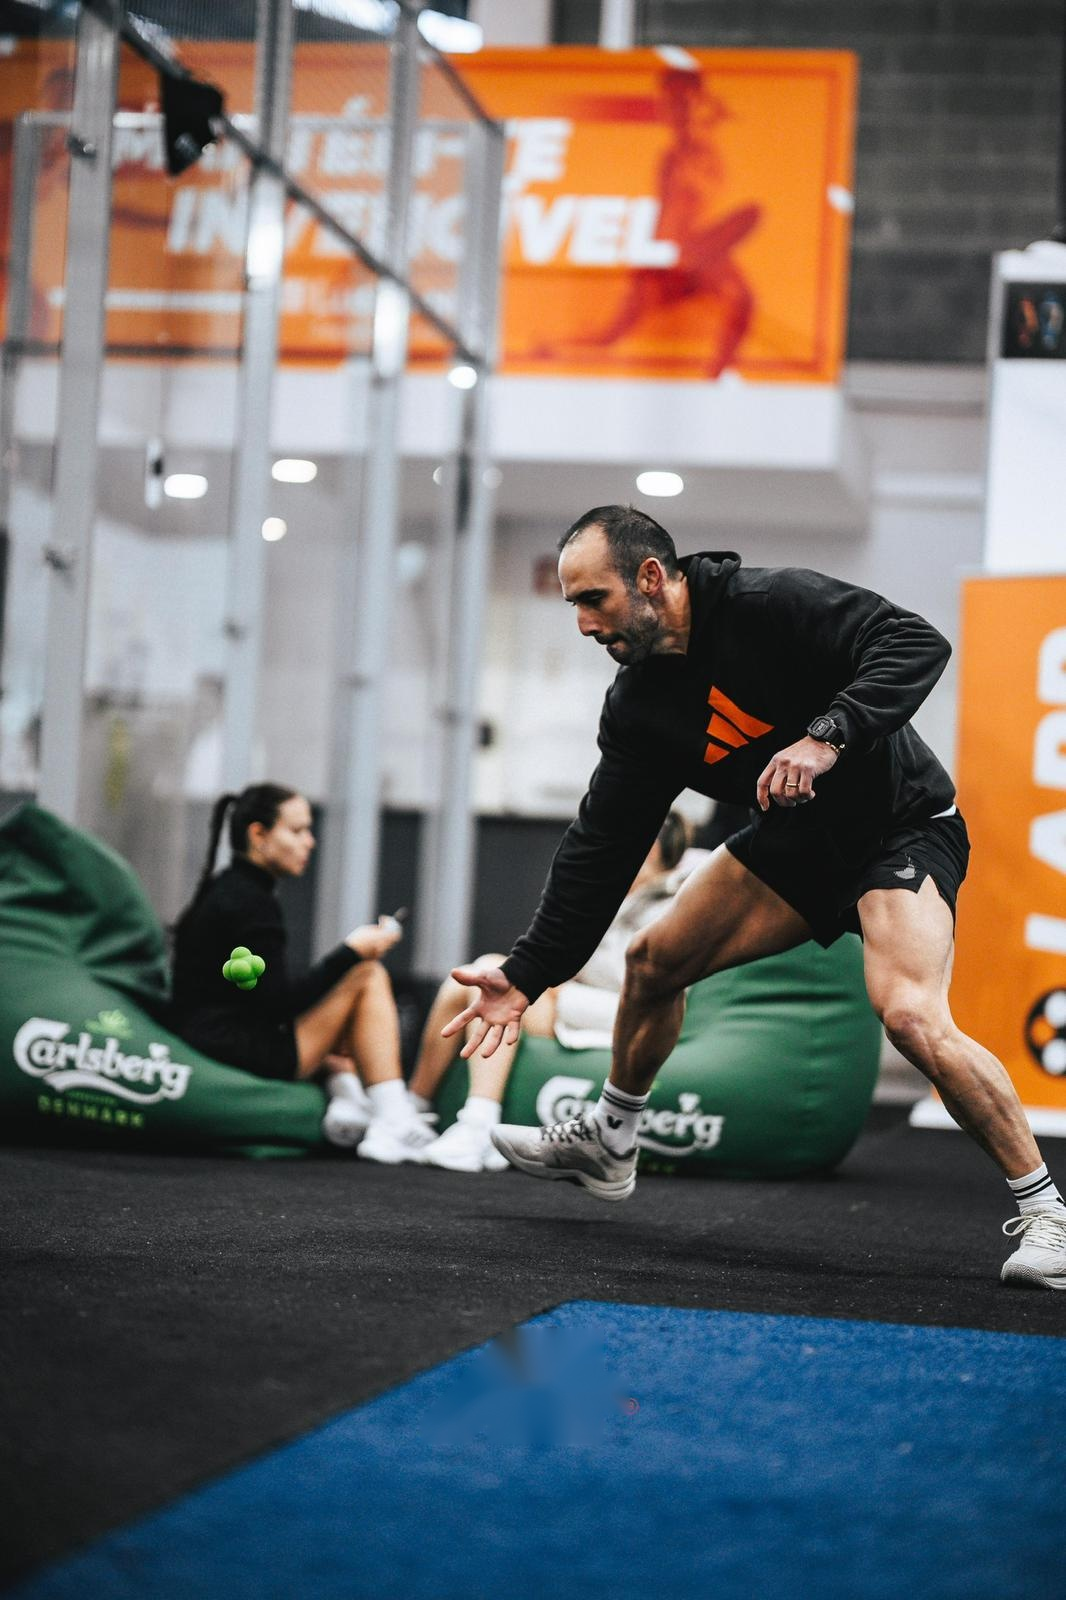
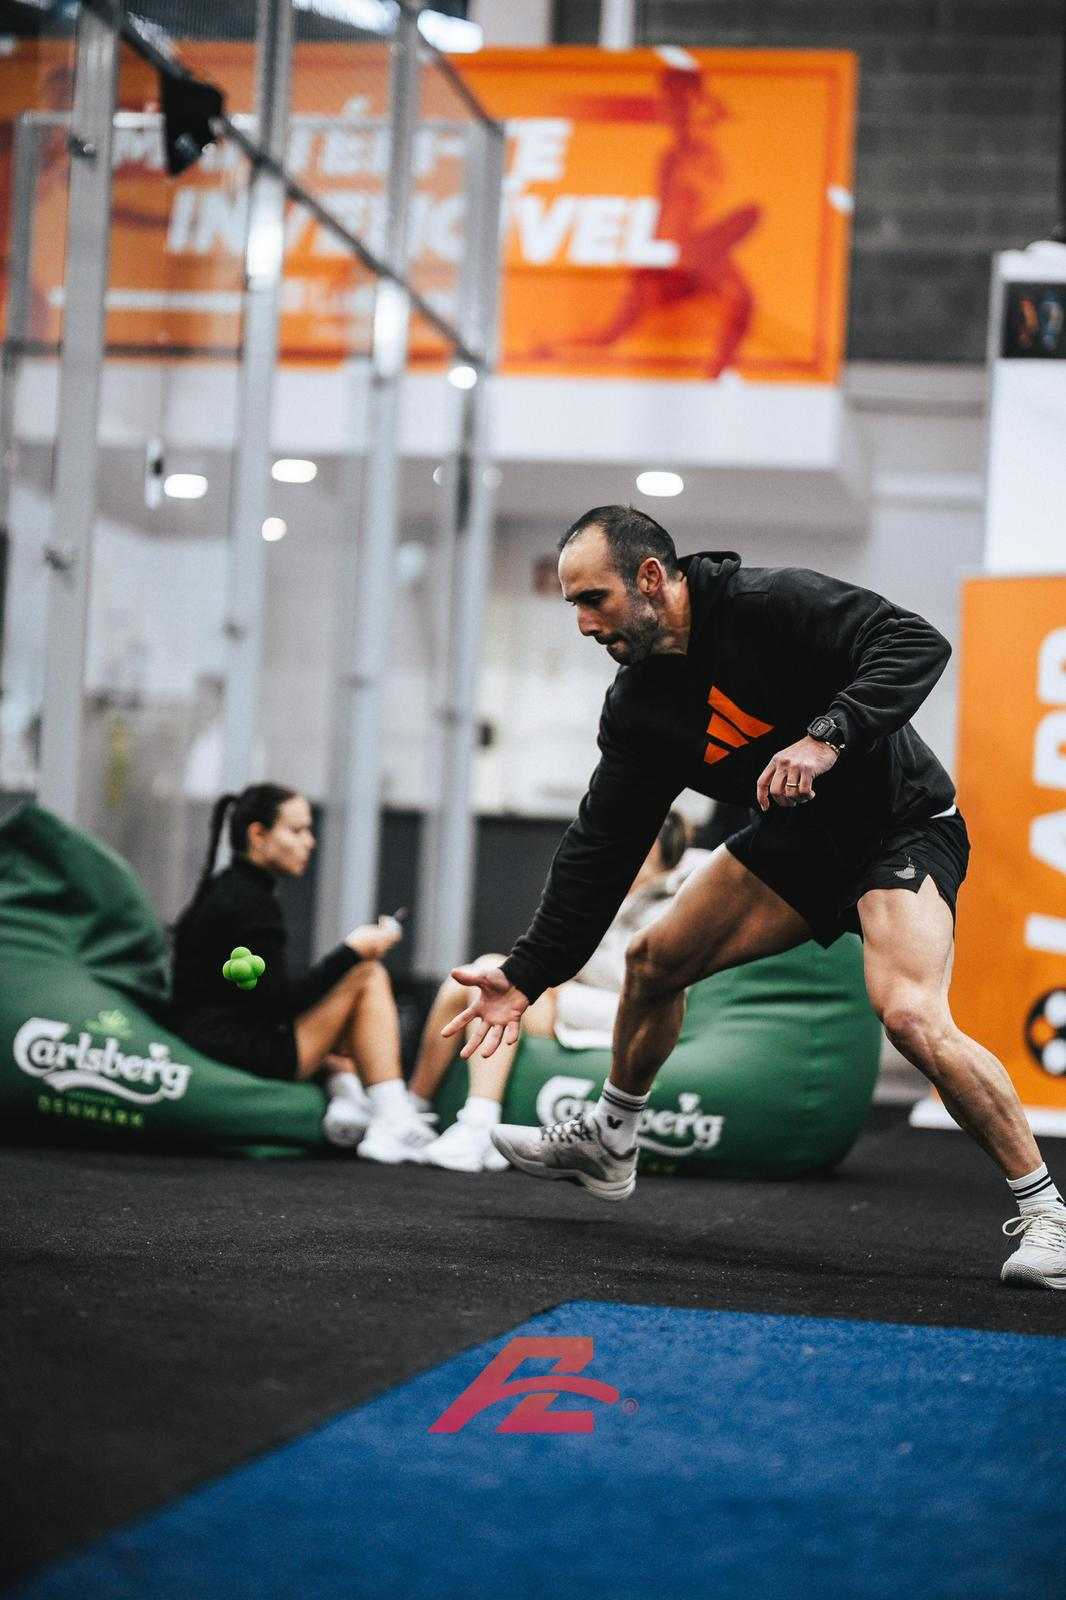
Refactor code structure for improved readability and maintainability

Changed region(s): [[0.4024, 0.8125, 0.5882, 0.9062]]

diff --git a/website/apps/web/app/[locale]/sobre/page.tsx b/website/apps/web/app/[locale]/sobre/page.tsx
@@ -12,7 +12,7 @@ export default async function SobrePage() {
       {/* ── HERO ── */}
       <section className="relative h-[80vh] min-h-[560px] flex items-end overflow-hidden">
         <Image
-          src="/images/lifestyle/joao-reacao-exterior-lanca-bola.jpg"
+          src="/images/lifestyle/joao-treino-reacao-indoor-agachamento.jpg"
           alt="ReaxOne — Performance Primeiro"
           fill
           priority
@@ -68,7 +68,7 @@ export default async function SobrePage() {
           <div className="grid md:grid-cols-2 gap-16 items-center">
             <div className="relative aspect-square rounded-2xl overflow-hidden shadow-xl">
               <Image
-                src="/images/lifestyle/joao-reacao-exterior-curvado-bola.jpg"
+                src="/images/lifestyle/joao-treino-reacao-indoor-posicao.jpg"
                 alt="Velocidade de reação"
                 fill
                 className="object-cover"
